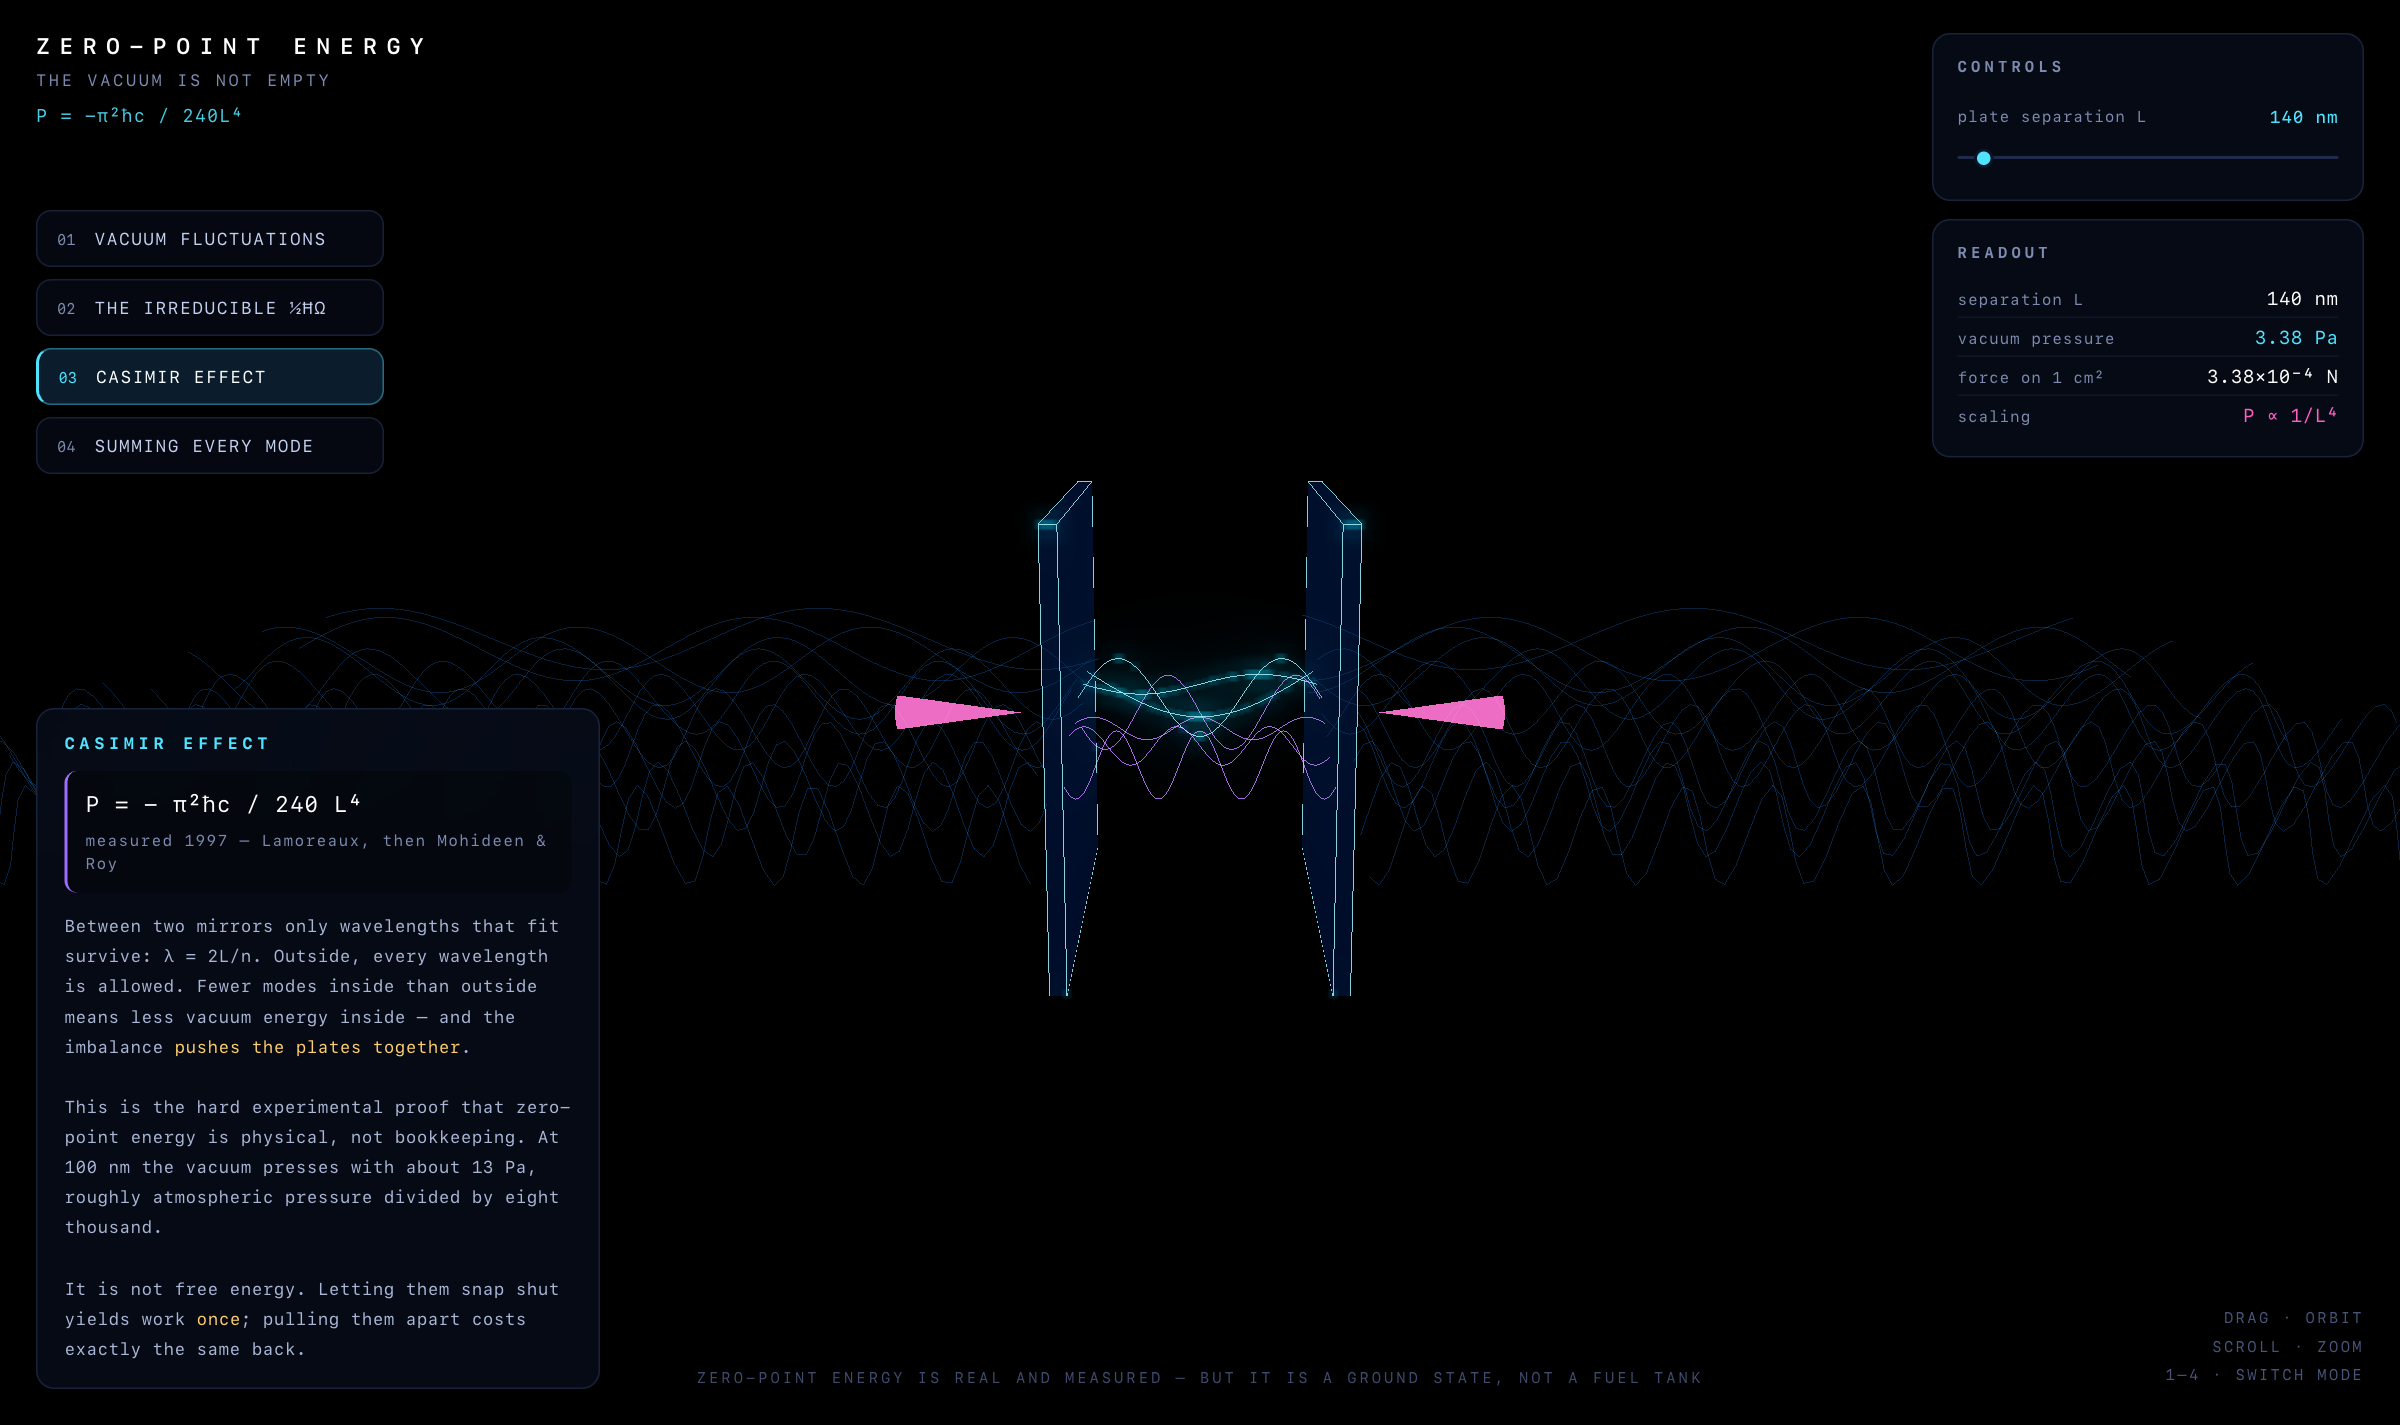
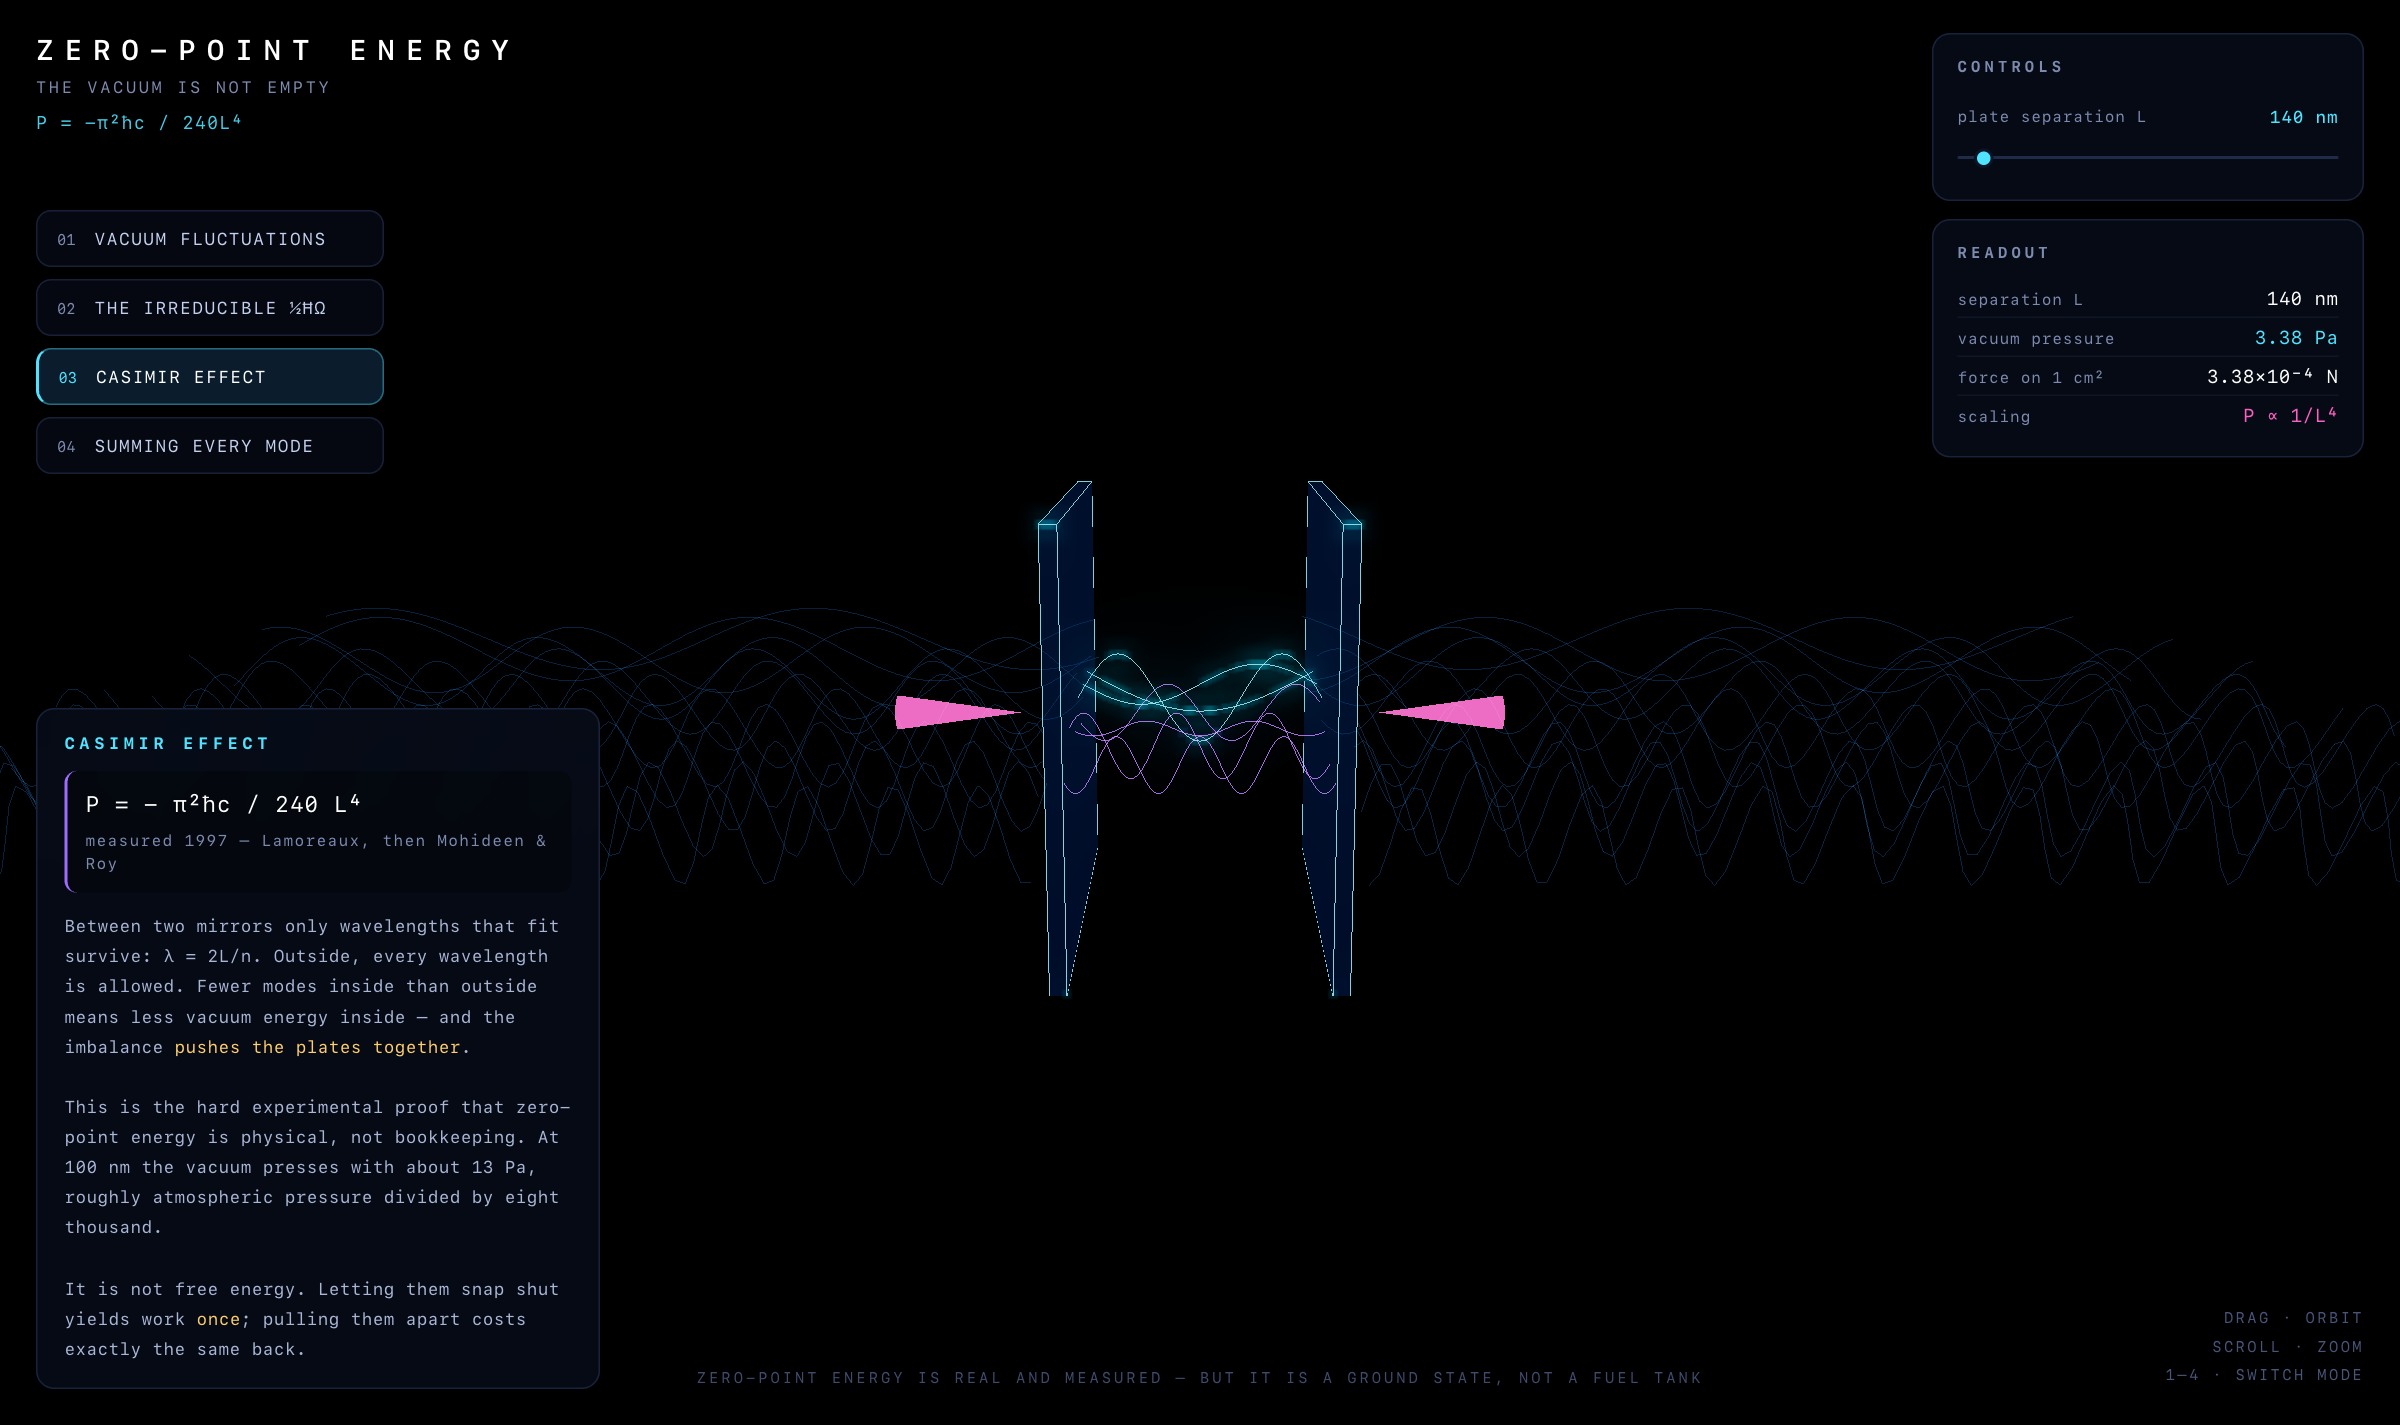
Animate comparison bars with transform, strengthen title scale
- .bar .fill now animates scaleX instead of width (no layout thrash)
- header steps up to 19px so it clears the readout values

Claude-Session: https://claude.ai/code/session_01WjNTa1NgHF3PTbfTNgWSCt

Changed region(s): [[0.125, 0.4323, 1.0, 0.5867], [0.0, 0.0309, 0.1875, 0.0926]]

diff --git a/index.html b/index.html
@@ -43,7 +43,7 @@
   /* ---------- header ---------- */
   #head{position:fixed;top:22px;left:24px;z-index:5;pointer-events:none}
   #head h1{
-    font-size:15px;font-weight:600;letter-spacing:.42em;
+    font-size:19px;font-weight:600;letter-spacing:.38em;
     color:#fff;text-transform:uppercase;
   }
   #head p{margin-top:7px;font-size:11px;color:var(--dim);letter-spacing:.16em}
@@ -113,7 +113,8 @@
   .bar{margin:9px 0}
   .bar .lab{display:flex;justify-content:space-between;font-size:10px;color:var(--dim);margin-bottom:5px}
   .bar .track{height:5px;background:rgba(120,160,255,.12);border-radius:3px;overflow:hidden}
-  .bar .fill{height:100%;border-radius:3px;transition:width .35s ease}
+  .bar .fill{height:100%;width:100%;border-radius:3px;transform:scaleX(0);
+    transform-origin:left center;transition:transform .35s ease}
   .fill.pred{background:linear-gradient(90deg,#a06bff,#ff5ec4)}
   .fill.obs{background:linear-gradient(90deg,#2a4a6a,#4fe3ff)}
 
@@ -167,11 +168,11 @@
     <div class="bars">
       <div class="bar">
         <div class="lab"><span>QFT prediction</span><span id="barPredV">—</span></div>
-        <div class="track"><div class="fill pred" id="barPred" style="width:0%"></div></div>
+        <div class="track"><div class="fill pred" id="barPred"></div></div>
       </div>
       <div class="bar">
         <div class="lab"><span>Observed (dark energy)</span><span>6×10⁻¹⁰ J/m³</span></div>
-        <div class="track"><div class="fill obs" id="barObs" style="width:2%"></div></div>
+        <div class="track"><div class="fill obs" id="barObs"></div></div>
       </div>
       <div class="row" style="border:0;padding-top:10px">
         <span class="k">Discrepancy</span><span class="v warn" id="barRatio">—</span>
@@ -901,8 +902,8 @@ function refreshReadout(){
     const lp = Math.log10(Math.max(rho, 1e-30)), lo = Math.log10(RHO_DE);
     const span = [ -12, 118 ];
     const pct = x => Math.max(1.5, Math.min(100, (x - span[0])/(span[1]-span[0])*100));
-    document.getElementById('barPred').style.width = pct(lp)+'%';
-    document.getElementById('barObs').style.width  = pct(lo)+'%';
+    document.getElementById('barPred').style.transform = `scaleX(${pct(lp)/100})`;
+    document.getElementById('barObs').style.transform  = `scaleX(${pct(lo)/100})`;
     document.getElementById('barPredV').textContent = fmt(rho,2)+' J/m³';
     document.getElementById('barRatio').textContent = fmt(rho/RHO_DE,2)+'×';
   }
